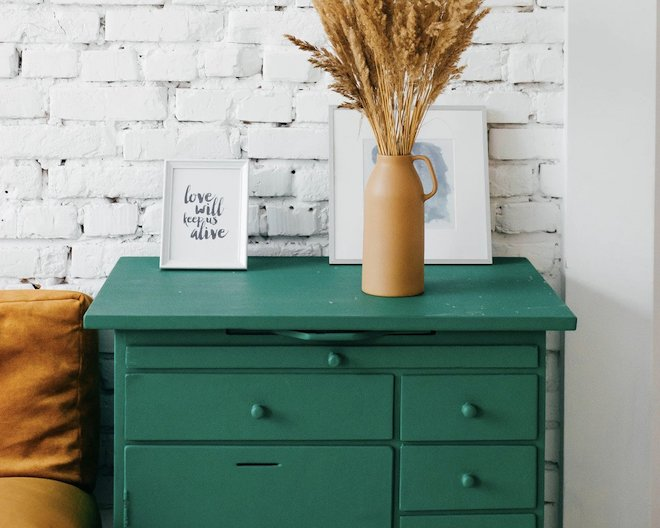
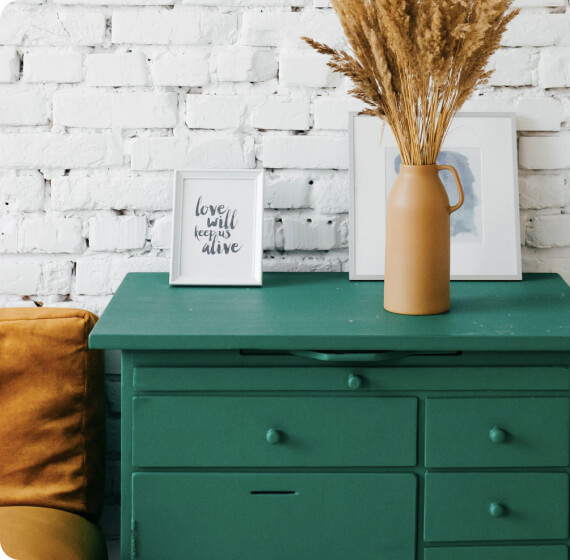
done

diff --git a/style.css b/style.css
@@ -2,12 +2,23 @@
 
 * {
     box-sizing: border-box;
+    margin: 0;
 }
 
 body {
-    font-family: 'Manrope', sans-serif;
-    font-size: 13px;
-    min-height: 100vh;
+    font-family: 'Manrope', 'Arial', sans-serif;
+    font-size: 0.8125rem;
+    line-height: 153.846%;
+    letter-spacing: 0.00763em;
+    height: 100vh;
+    background-color: hsl(210, 46%, 95%);
+    color: #6e8098;
+    padding: 24px 0;
+    overflow: hidden;
+}
+
+body {
+    -webkit-font-smoothing: antialiased;
 }
 
 .main {
@@ -16,9 +27,80 @@ body {
     flex-direction: column;
     align-items: center;
     justify-content: center;
+    width: 100vw;
 }
 
 .container {
     border-radius: 15px;
     display: flex;
+    background-color: #fff;
+    height: auto;
+}
+
+.main_img {
+    width: 285px;
+    height: 280px;
+    border-top-left-radius: 15px;
+    border-bottom-left-radius: 15px;
+}
+
+.info {
+    width: 445px;
+    padding: 30px 40px;
+}
+
+.title {
+    margin-bottom: 12px;
+    font-size: 1.25rem;
+    font-weight: 700;
+    line-height: 1.4;
+    letter-spacing: 0.01563em;
+    color: #48556a;
+}
+
+.description {
+    font-size: 13px;
+    margin: 0 0 20px;
+    font-weight: 200;
+}
+
+.user {
+    display: flex;
+    align-items: center;
+    justify-content: space-between;
+}
+
+.avatar_img {
+    width: 40px;
+    border-radius: 50%;
+}
+
+.user_info {
+    display: flex;
+    flex-direction: column;
+}
+
+.user_info span {
+    color: #48556a;
+    font-weight: bold;
+    font-size: 13px;
+}
+
+.user_info small {
+    color: #9daec2;
+    font-size: 13px;
+}
+
+.share {
+    height: 32px;
+    width: 32px;
+    border-radius: 50%;
+    background-color: #ecf2f8;
+    text-align: center;
+    cursor: pointer;
+    display: flex;
+    align-items: center;
+    justify-content: center;
+    position: relative;
+    z-index: 2;
 }
